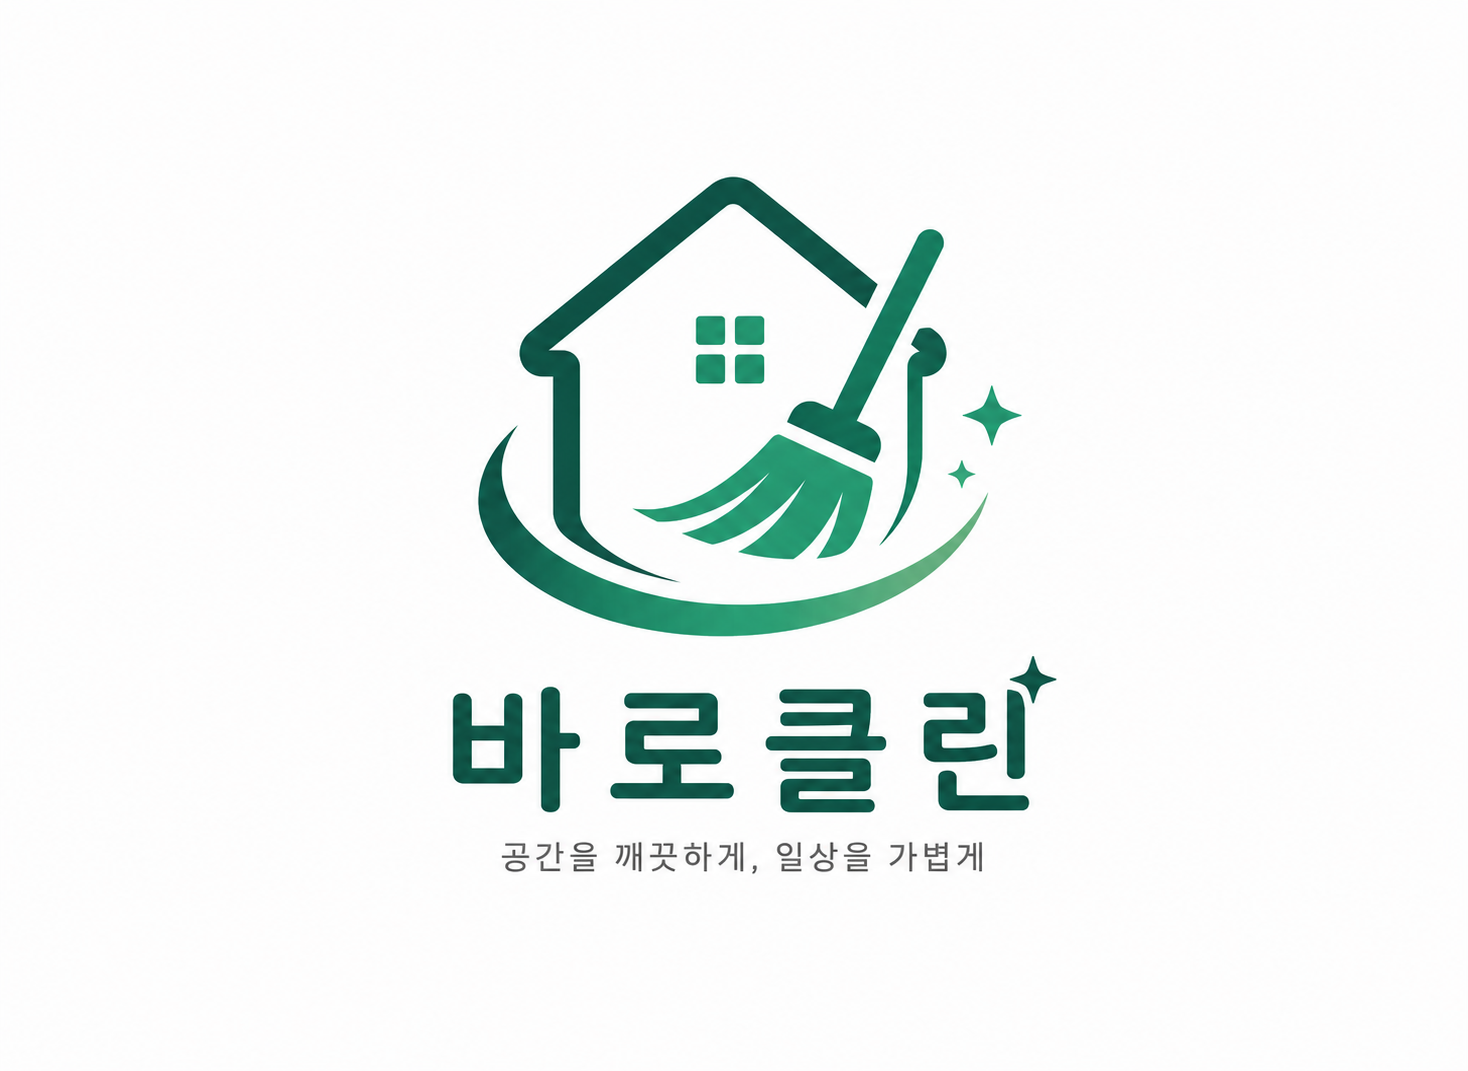
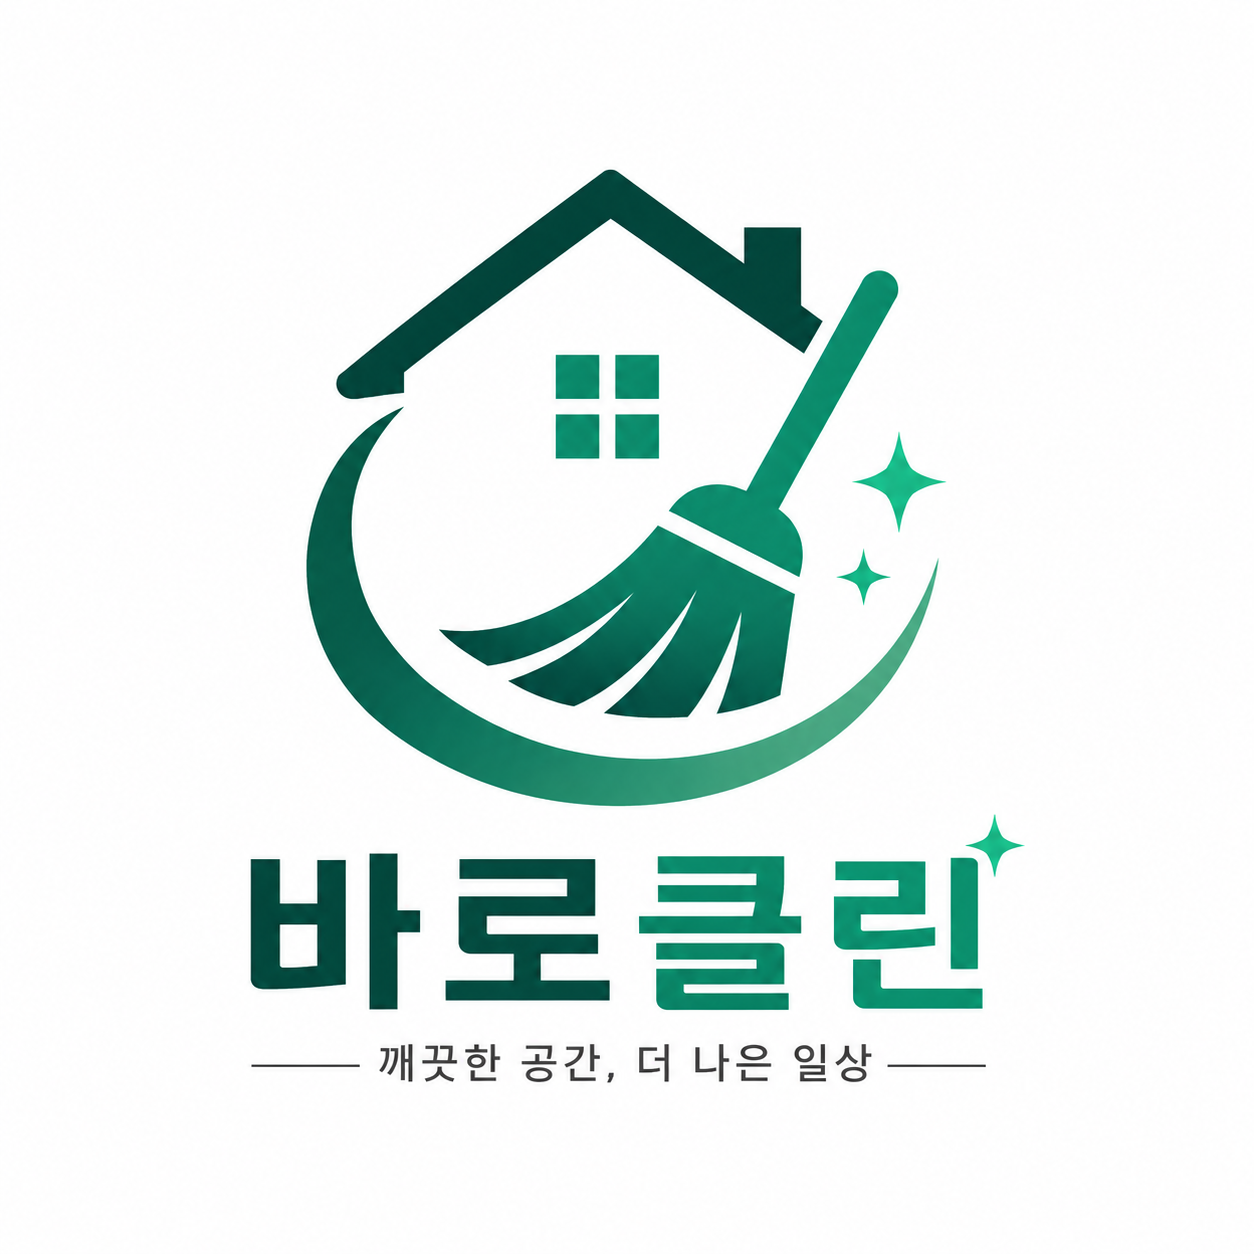
1

Changed region(s): [[0.1866, 0.1232, 0.8086, 0.8627]]

diff --git a/index.html b/index.html
@@ -196,7 +196,7 @@ footer{background:var(--footer);color:#cfd4da;padding:44px 0 52px;font-size:13.5
     <p>정기관리부터 준공청소까지, 공간 특성에 맞춘 전문 청소 서비스.<br>놓치기 쉬운 구석까지 꼼꼼하게 관리합니다.</p>
     <a class="btn" href="contact.html">무료 견적 문의하기</a>
     <div class="hero-tags">
-      <span>정기관리</span><span>준공·리모델링</span><span>카펫·소파</span><span>유리창·외벽</span><span>공장</span>
+      <span>정기관리</span><span>사무실·관공서</span><span>학교·학원</span><span>카페·매장</span><span>준공·리모델링</span><span>공장</span>
     </div>
   </div>
 </section>
@@ -209,7 +209,7 @@ footer{background:var(--footer);color:#cfd4da;padding:44px 0 52px;font-size:13.5
     <div>
       <h2>당신의 비즈니스를 위한<br><span>바로클린 청소 솔루션</span></h2>
       <p class="desc">
-        바로클린은 사무실, 병원, 학교, 매장, 공장 등<br>
+        바로클린은 정기관리, 사무실, 학원, 학교, 매장, 공장 등<br>
         다양한 공간의 청소를 진행해온 청소 전문 업체입니다.<br><br>
         눈에 보이는 곳만이 아니라, 놓치기 쉬운 구석까지 꼼꼼하게 관리하며<br>
         청소 후 바로 업무나 영업이 가능한 상태로 공간을 정리해드립니다.<br><br>
@@ -229,11 +229,11 @@ footer{background:var(--footer);color:#cfd4da;padding:44px 0 52px;font-size:13.5
     </div>
     <div class="svc-grid">
       <!-- 각 사진 자리: <div class="ph">…</div> 를 <img class="ph" src="이미지경로" alt="…" style="object-fit:cover"> 로 교체 -->
-      <figure class="svc-item"><div class="ph">사진</div><figcaption>사무실 청소</figcaption></figure>
       <figure class="svc-item"><div class="ph">사진</div><figcaption>정기관리 청소</figcaption></figure>
+      <figure class="svc-item"><div class="ph">사진</div><figcaption>사무실·관공서 청소</figcaption></figure>
+      <figure class="svc-item"><div class="ph">사진</div><figcaption>학교·학원 청소</figcaption></figure>
+      <figure class="svc-item"><div class="ph">사진</div><figcaption>카페·매장 청소</figcaption></figure>
       <figure class="svc-item"><div class="ph">사진</div><figcaption>준공·리모델링 청소</figcaption></figure>
-      <figure class="svc-item"><div class="ph">사진</div><figcaption>카펫·소파 청소</figcaption></figure>
-      <figure class="svc-item"><div class="ph">사진</div><figcaption>유리창·외벽 청소</figcaption></figure>
       <figure class="svc-item"><div class="ph">사진</div><figcaption>공장 청소</figcaption></figure>
     </div>
   </div>

diff --git a/services.html b/services.html
@@ -223,7 +223,7 @@ footer{background:var(--footer);color:#cfd4da;padding:44px 0 52px;font-size:13.5
   <div class="wrap">
     <div class="svc-head">
       <h2>특수 청소</h2>
-      <p>카펫·소파/유리창·외벽/계단/공장 등</p>
+      <p>계단/공장 등</p>
     </div>
     <div class="svc-body">
       <div class="svc-photos">
@@ -233,9 +233,8 @@ footer{background:var(--footer);color:#cfd4da;padding:44px 0 52px;font-size:13.5
       <div class="svc-text">
         <p>일반 청소로 관리가 어려운 영역을 대상으로 진행하는<br>
         <span class="accent">바로클린 특수청소 서비스</span>입니다.</p>
-        <p><b>카펫·소파 청소</b>는 눈에 띄지 않는 오염과 냄새까지 전용 장비로 케어하고,<br>
-        <b>유리창·외벽 청소</b>는 전문 장비를 활용해 고소·외부 작업까지 안전하게 진행합니다.<br>
-        <b>계단 등 건물 공용공간</b>과 <b>공장·산업 현장</b>은<br>
+        <p>
+        <b>계단 및 건물 공용공간</b>과 <b>공장·산업 현장</b>은<br>
         공간 자재와 오염 특성에 맞는 청소 방식을 적용합니다.</p>
         <p class="em">관리가 어려웠던 곳일수록, 차이가 분명하게 보입니다.</p>
       </div>